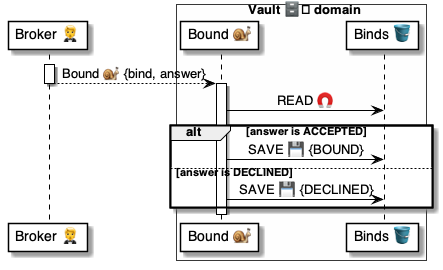
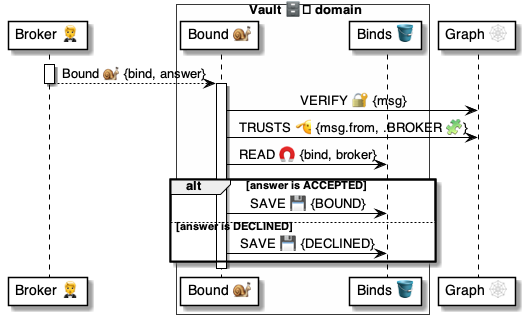
.

diff --git a/4 ⚙ Solution/45 🤲 Helper domains/Billers 🤝/🤝📨 Biller msgs/🤲🚀🤝 Bill/🤝 Authorize 🚀 call.md b/4 ⚙ Solution/45 🤲 Helper domains/Billers 🤝/🤝📨 Biller msgs/🤲🚀🤝 Bill/🤝 Authorize 🚀 call.md
@@ -1,0 +1,28 @@
+# 🤝 Authorize@Biller 🚀 call
+
+> About
+* Part of [Biller 🤝 domain](<../../🤝 Biller/🤝🤲 Biller helper.md>)
+
+<br/>
+
+## Synchronous Call 🚀
+
+```yaml
+Header:
+    From: any-helper.dom
+    To: any-biller.dom
+    Subject: Authorize@Biller
+
+Body:
+    Domain: any-domain.dom
+    Schema: any-authority.dom/ANY-SCHEMA
+```
+
+<br/>
+
+## Synchronous Response
+
+```yaml
+Result: AUTHORIZED
+Bill: <bill-uuid>
+```

diff --git a/4 ⚙ Solution/41 🎭 Domain Roles/Vaults 🗄/🗄📨 Vault msgs/Bound 🤵🐌🗄/🗄 Bound 📃 handler.md b/4 ⚙ Solution/41 🎭 Domain Roles/Vaults 🗄/🗄📨 Vault msgs/Bound 🤵🐌🗄/🗄 Bound 📃 handler.md
@@ -21,13 +21,17 @@
 ```yaml
 📃 Bound@Vault:
 
-# Verify the domain signature
-- VERIFY|$.Msg
-
 # Assert the message
 - ASSERT|$.Msg:
     AllOf: Bind, Answer
     Answer.IsIn: ACCEPTED, DECLINED
+
+# Verify the domain signature
+- VERIFY|$.Msg
+
+# Check if the Broker is still trustworthy
+- TRUSTS|$.Msg.From:
+    Schema: .BROKER
 
 # Get the Bind
 - READ >> $bind:

diff --git a/4 ⚙ Solution/41 🎭 Domain Roles/Vaults 🗄/🗄📨 Vault msgs/Unbound 🤵🐌🗄/🗄 Unbound 📃 handler.md b/4 ⚙ Solution/41 🎭 Domain Roles/Vaults 🗄/🗄📨 Vault msgs/Unbound 🤵🐌🗄/🗄 Unbound 📃 handler.md
@@ -12,8 +12,17 @@
 ```yaml
 🗄📃 Unbound@Vault:
 
+# Verify the inputs
+- ASSERT|$.Msg:
+    AllOf: Bind
+    UUIDs: Bind
+
 # Verify the domain signature
 - VERIFY|$.Msg
+
+# Check if the Broker is still trustworthy
+- TRUSTS|$.Msg.From:
+    Schema: .BROKER
 
 # Resolve the bind
 - READ >> $bind:

diff --git a/4 ⚙ Solution/41 🎭 Domain Roles/Vaults 🗄/🗄📨 Vault msgs/Collect 💼🚀🗄/🗄 Collect 📃 handler.md b/4 ⚙ Solution/41 🎭 Domain Roles/Vaults 🗄/🗄📨 Vault msgs/Collect 💼🚀🗄/🗄 Collect 📃 handler.md
@@ -16,6 +16,13 @@
 ## Script
 
 ```yaml
+📃 Collect@Vault:
+
+# Verify the inputs
+- ASSERT|$.Msg:
+    AllOf: Disclose
+    UUIDs: Disclose
+
 # Verify the signature
 - VERIFY|$.Msg
 

diff --git a/4 ⚙ Solution/41 🎭 Domain Roles/Vaults 🗄/🗄📨 Vault msgs/Disclose 🤵🐌🗄/🗄 Disclose 📃 handler.md b/4 ⚙ Solution/41 🎭 Domain Roles/Vaults 🗄/🗄📨 Vault msgs/Disclose 🤵🐌🗄/🗄 Disclose 📃 handler.md
@@ -27,7 +27,7 @@
 # Verify the signature
 - VERIFY|$.Msg
 
-# Check if the Broker is trustworthy
+# Check if the Broker is still trustworthy
 - TRUSTS|$.Msg.From:
     Schema: .BROKER
 
